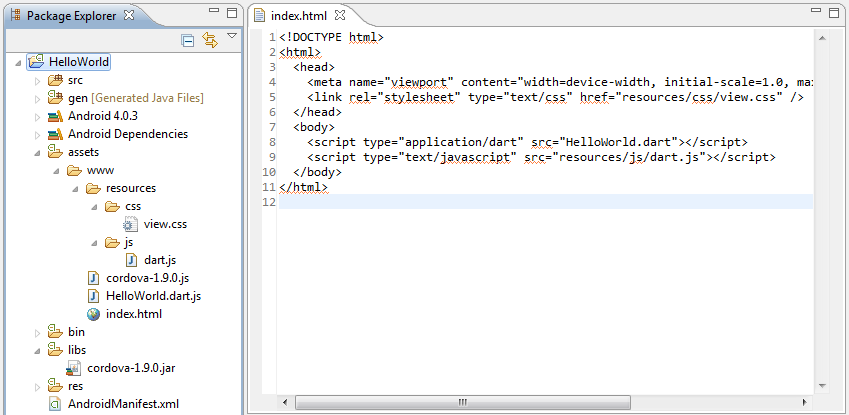
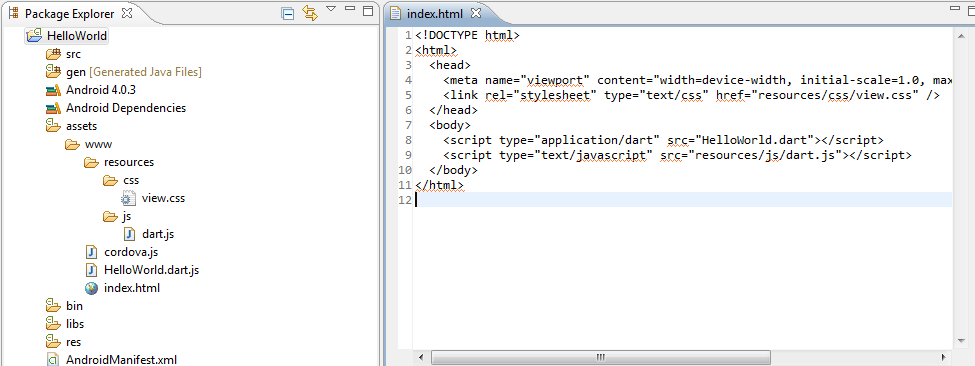
Fine tune to avoid cordova.js version number appear in code.

Changed region(s): [[0.0, 0.0, 1.0, 1.0], [0.9494, 0.9016, 1.0, 0.9317]]

diff --git a/docs/Getting_Started/Building_Native_Mobile_Application.md b/docs/Getting_Started/Building_Native_Mobile_Application.md
@@ -21,7 +21,7 @@ For convenience, following we use the Android platform and the [Hello World](Hel
 1. Compile your Rikulo application from Dart to JavaScript. 
 	* Open your application folder in [Dart Editor](http://www.dartlang.org/docs/editor/).
 	* Select the dart file with `void main()` function from your application folder; e.g. `HelloWorld.dart`.
-	* Select `Tools/Generate JavaScript` from the DartEditor menubar. Two new files with extension .dart.js and .dart.js.map will be generated in the same folder. e.g. For `HelloWorld.dart` will generate `HelloWorld.dart.js` and `HelloWorld.dart.js.map` two files
+	* Select `Tools/Generate JavaScript` from the DartEditor menubar. Two new files with extension `.dart.js` and `.dart.js.map` will be generated in the same folder. e.g. For `HelloWorld.dart` will generate `HelloWorld.dart.js` and `HelloWorld.dart.js.map` two files
 
 	>DartEditor actually calls `dart2js` in dart-sdk to do the compiling job.
 
@@ -29,12 +29,14 @@ For convenience, following we use the Android platform and the [Hello World](Hel
 
 	Now you shall have had a working `HelloCordova` sample application running in Cordova/PhoneGap environment. The entry point of the `HelloCordova` application in Cordova/PhoneGap environment is the `index.html` file under `assets/www` folder.
 
-3. Let's replace the `index.html` under `assets/www` with the one from our Rikulo program.
+3. Replace the `index.html` under `assets/www` with the one from our Rikulo program.
 	* Copy `index.html` of our Rikulo example onto `assets/www` folder and replace the old one.
 	* Copy all resource files needed for the Rikulo example onto `assets/www` folder. e.g. the `resources` folder and files under.
 	* Copy the compiled xxx.dart.js file onto `assets/www` folder. e.g. the `HelloWorld.dart.js`.
 
-4. You are ready to deploy and run the Rikulo program as an native mobile application.
+4. Remove the version number from the cordova JavaScript file name in `assets/www` folder. e.g. rename `cordova-1.9.0.js` to `cordova.js`.
+
+5. You are ready to deploy and run the Rikulo program as a native mobile application.
 
 ![Cordova Android Development Environment](cordova-env.png?raw=true)
 
@@ -66,7 +68,7 @@ Following we show you the basic elements of how to access device native resource
     }
 
     void main() {
-      enableDeviceAccess("cordova-1.9.0.js");
+      enableDeviceAccess();
       new HelloWorld().run();
     }
 
@@ -74,7 +76,6 @@ As shown above:
 
 1. Import [device](api:) and [device/accelerometer](api:) packages along with others.
 2. Call global method [enableDeviceAccess()](api:device) in the `main` method with proper Cordova JavaScript file name.
->The Cordova JavaScript file name in `enableDeviceAccess` must match to what you copied under `assets/www`; e.g. in this example `cordova-1.9.0.js`.
 3. Use the native resource `accelerometer` via the global variable called [device](api:device).
 
 ###Import [device](api:) and [device/accelerometer](api:) package

diff --git a/docs/Device_Services/Fundamentals.md b/docs/Device_Services/Fundamentals.md
@@ -37,7 +37,7 @@ Based on Cordova/PhoneGap, Rikulo currently supports nine native device features
         }
 
         void main() {
-          enableDeviceAccess('cordova-1.9.0.js');
+          enableDeviceAccess();
           new HelloWorld().run();
         }
 
@@ -74,6 +74,6 @@ Following is an example that listens to the AccelerationEvent of the  accelerome
     }
 
     void main() {
-      enableDeviceAccess("cordova-1.9.0.js");
+      enableDeviceAccess();
       new HelloWorld().run();
     }
